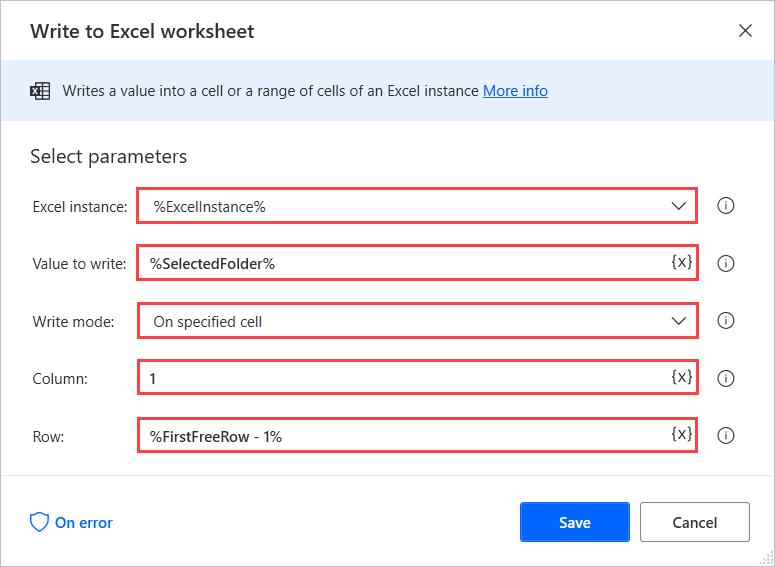
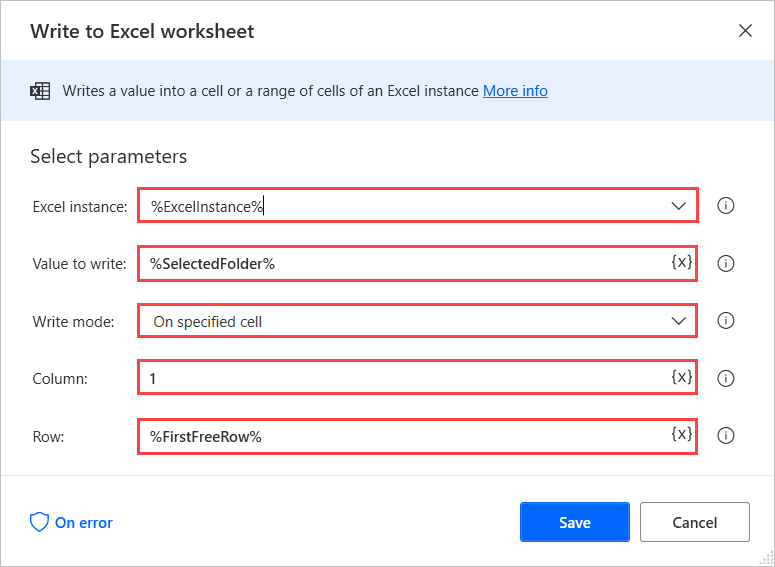
384052 Ticket
https://ceapex.visualstudio.com/Microsoft%20Learn/_workitems/edit/384052

diff --git a/learn-bizapps-pr/flow/pad-first-steps/includes/5-exercise-create-simple-flow.md b/learn-bizapps-pr/flow/pad-first-steps/includes/5-exercise-create-simple-flow.md
@@ -18,7 +18,9 @@ To create the flow:
 
     ![The Copy folder action.](..\media\exercise-copy-folder-action.png)
 
-1. Deploy a **Launch Excel** action to open the Excel file that contains the logs about your backup activity.
+1. Deploy a **Launch Excel** action to open the Excel file that contains the logs about your backup activity. 
+
+    1. If this file doesn't already exist, create a blank Excel spreadsheet named **Logs.xlsx** in the **Desktop** folder so that the automation will be able to open it as an existing file. 
 
     ![The Launch Excel action.](..\media\exercise-launch-excel-action.png)
 
@@ -30,9 +32,15 @@ To create the flow:
 
     ![The Get current date and time action.](..\media\exercise-get-current-date-and-time-action.png)
 
-1. Deploy two **Write to Excel worksheet** actions to add log information in the Excel file. Use the first one to write the copied folder's path in the first column and the second one to add a timestamp in the second column of the first available row.
+1. Deploy two **Write to Excel worksheet** actions to add log information in the Excel file. 
 
-    ![The Write to Excel worksheet action.](..\media\exercise-write-to-excel-worksheet-action.png)
+    1. Use the first **Write to Excel worksheet** action to write the copied folder's path in the first column.
+
+        ![The Write to Excel worksheet action writing the folder's path.](..\media\exercise-write-to-excel-worksheet-action.png)
+    
+    1. Use the second deployed action to add a timestamp in the second column of the first available row.
+
+        ![The Write to Excel worksheet action writing the timestamp.](..\media\exercise-write-to-excel-worksheet-second-action.png)
 
 1. Use a **Close Excel** action to save and close the Excel file.
 
